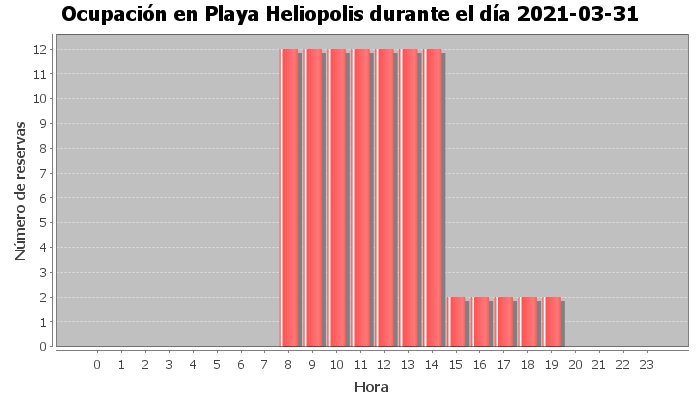
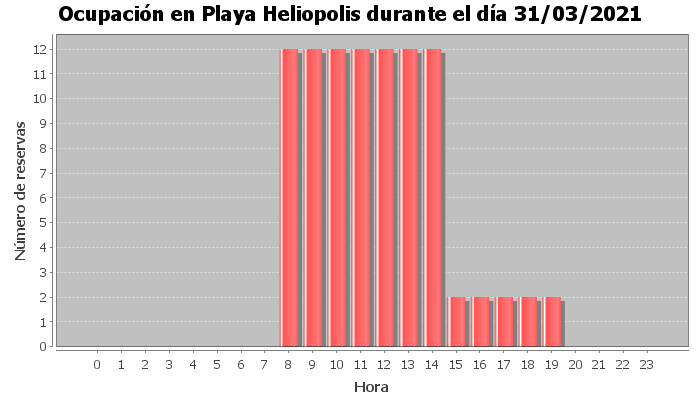
ocupacion perfecto

Changed region(s): [[0.06, 0.0, 0.93, 0.06]]

diff --git a/src/main/java/es/uji/ei102720mgph/SANA/services/OccupationSvc.java b/src/main/java/es/uji/ei102720mgph/SANA/services/OccupationSvc.java
@@ -149,7 +149,7 @@ public class OccupationSvc implements OccupationService{
 
         //Generamos el chart
         JFreeChart chart = ChartFactory.createBarChart(
-                "Ocupación en " + naturalArea + " durante " + Months.Enero.getDescripcionOfValue(month) + " de " + year,
+                "Ocupación en " + naturalArea + " durante " + getNombreMes(month) + " de " + year,
                 "Día",
                 "Número de reservas",
                 dataset,
@@ -162,6 +162,13 @@ public class OccupationSvc implements OccupationService{
 
         saveChart(file, chart);
         return "plots/" + plotName;
+    }
+
+    public String getNombreMes(int value) {
+        for(Months mes : Months.values())
+            if(mes.getNum() == value)
+                return mes.getDescripcion();
+        return "noEncontrado";
     }
 
     public String getOccupancyPlotByDay(String naturalArea, LocalDate day) {

diff --git a/src/main/java/es/uji/ei102720mgph/SANA/enums/Months.java b/src/main/java/es/uji/ei102720mgph/SANA/enums/Months.java
@@ -26,12 +26,5 @@ public enum Months {
         return descripcion;
     }
 
-    public String getDescripcionOfValue(int value) {
-        for(Months mes : Months.values())
-            if(mes.getNum() == value)
-                return descripcion;
-        return "noEncontrado";
-    }
-
     public int getNum() { return num; }
 }
